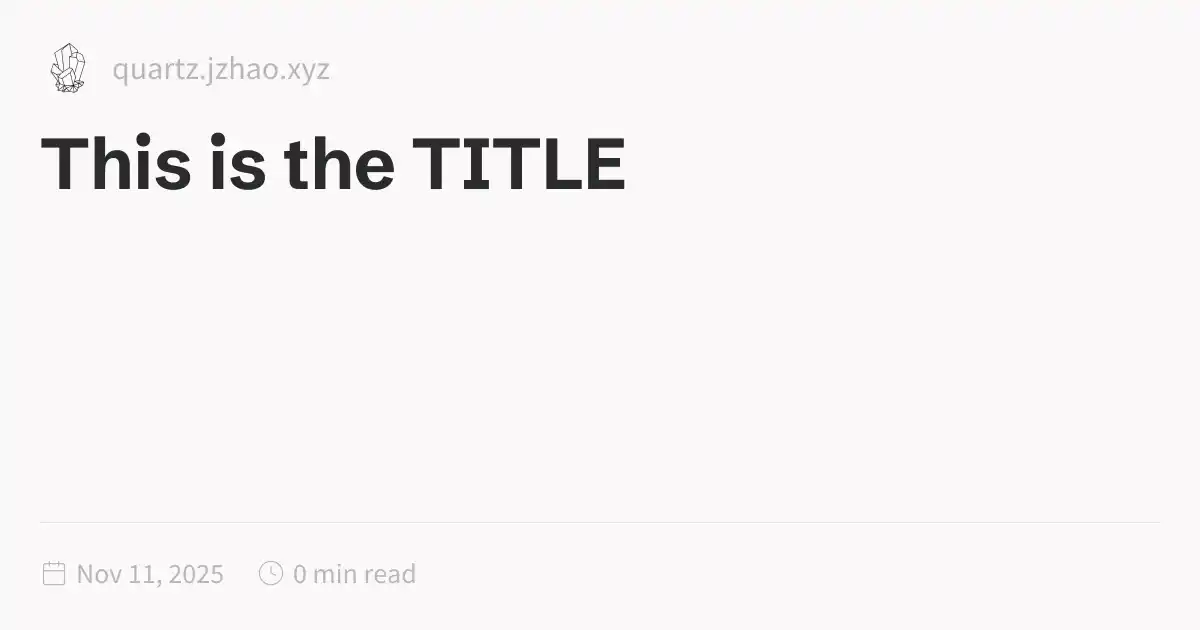
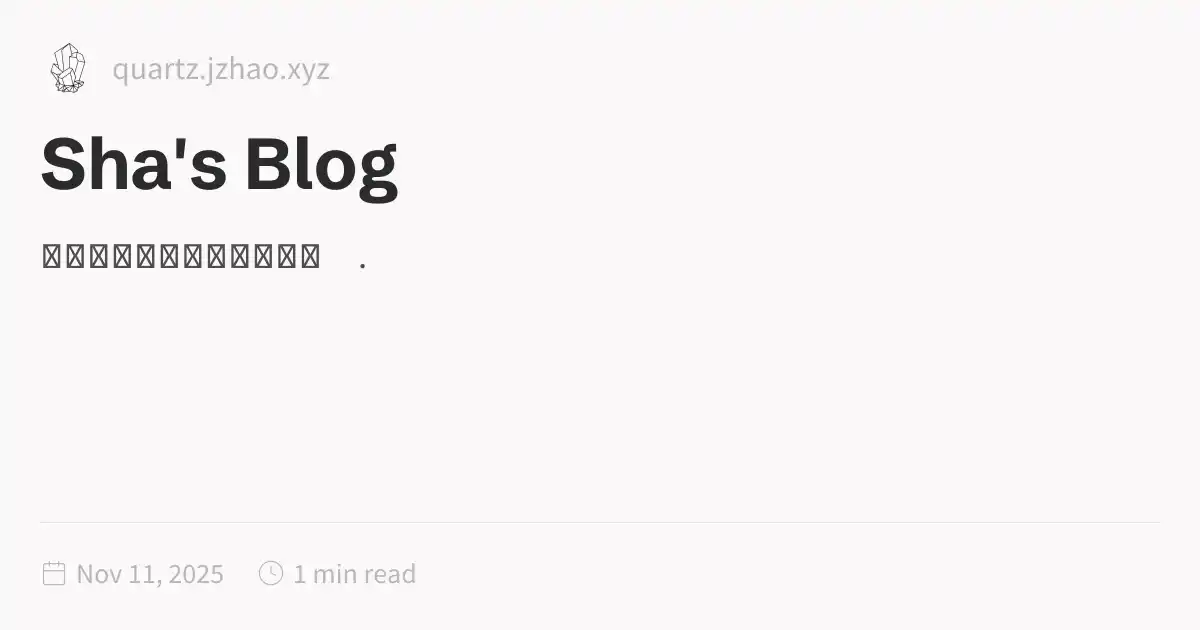
add giscus comments

Changed region(s): [[0.0308, 0.2111, 0.5242, 0.3317], [0.0308, 0.3619, 0.2775, 0.4222], [0.2467, 0.9048, 0.2775, 0.9349]]

diff --git a/docs/index.html b/docs/index.html
@@ -1,5 +1,5 @@
 <!DOCTYPE html>
-<html lang="en" dir="ltr"><head><title>This is the TITLE</title><meta charset="utf-8"/><link rel="preconnect" href="https://fonts.googleapis.com"/><link rel="preconnect" href="https://fonts.gstatic.com"/><link rel="stylesheet" href="https://fonts.googleapis.com/css2?family=Schibsted Grotesk:wght@400;700&amp;family=Source Sans Pro:ital,wght@0,400;0,600;1,400;1,600&amp;family=IBM Plex Mono:wght@400;600&amp;display=swap"/><link rel="preconnect" href="https://cdnjs.cloudflare.com" crossorigin="anonymous"/><meta name="viewport" content="width=device-width, initial-scale=1.0"/><meta name="og:site_name" content="Quartz 4"/><meta property="og:title" content="This is the TITLE"/><meta property="og:type" content="website"/><meta name="twitter:card" content="summary_large_image"/><meta name="twitter:title" content="This is the TITLE"/><meta name="twitter:description" content/><meta property="og:description" content/><meta property="og:image:alt" content/><meta property="twitter:domain" content="quartz.jzhao.xyz"/><meta property="og:url" content="https://quartz.jzhao.xyz/index"/><meta property="twitter:url" content="https://quartz.jzhao.xyz/index"/><link rel="icon" href="./static/icon.png"/><meta name="description" content/><meta name="generator" content="Quartz"/><link href="./index.css" rel="stylesheet" type="text/css" spa-preserve/><style>.expand-button {
+<html lang="en" dir="ltr"><head><title>Sha's Blog</title><meta charset="utf-8"/><link rel="preconnect" href="https://fonts.googleapis.com"/><link rel="preconnect" href="https://fonts.gstatic.com"/><link rel="stylesheet" href="https://fonts.googleapis.com/css2?family=Schibsted Grotesk:wght@400;700&amp;family=Source Sans Pro:ital,wght@0,400;0,600;1,400;1,600&amp;family=IBM Plex Mono:wght@400;600&amp;display=swap"/><link rel="preconnect" href="https://cdnjs.cloudflare.com" crossorigin="anonymous"/><meta name="viewport" content="width=device-width, initial-scale=1.0"/><meta name="og:site_name" content="Quartz 4"/><meta property="og:title" content="Sha's Blog"/><meta property="og:type" content="website"/><meta name="twitter:card" content="summary_large_image"/><meta name="twitter:title" content="Sha's Blog"/><meta name="twitter:description" content="你们可以开盘我第几周断更。."/><meta property="og:description" content="你们可以开盘我第几周断更。."/><meta property="og:image:alt" content="你们可以开盘我第几周断更。."/><meta property="twitter:domain" content="quartz.jzhao.xyz"/><meta property="og:url" content="https://quartz.jzhao.xyz/index"/><meta property="twitter:url" content="https://quartz.jzhao.xyz/index"/><link rel="icon" href="./static/icon.png"/><meta name="description" content="你们可以开盘我第几周断更。."/><meta name="generator" content="Quartz"/><link href="./index.css" rel="stylesheet" type="text/css" spa-preserve/><style>.expand-button {
   position: absolute;
   display: flex;
   float: right;
@@ -116,7 +116,7 @@ pre:hover > .expand-button {
   padding: 0 12px;
   font-size: 14px;
 }
[2 lines of base64/hex data omitted]
                 s-3.542,0.634-4.898,1.688l-7.669-7.669C16.785,10.424,17,9.74,17,9c0-2.206-1.794-4-4-4S9,6.794,9,9s1.794,4,4,4
                 c0.74,0,1.424-0.215,2.019-0.567l7.669,7.669C21.634,21.458,21,23.154,21,25s0.634,3.542,1.688,4.897L10.024,42.562
                 C8.958,41.595,7.549,41,6,41c-3.309,0-6,2.691-6,6s2.691,6,6,6s6-2.691,6-6c0-1.035-0.263-2.009-0.726-2.86l12.829-12.829

diff --git a/content/index.md b/content/index.md
@@ -1,3 +1,4 @@
 ---
-title: This is the TITLE
+title: Sha's Blog
 ---
+你们可以开盘我第几周断更。
